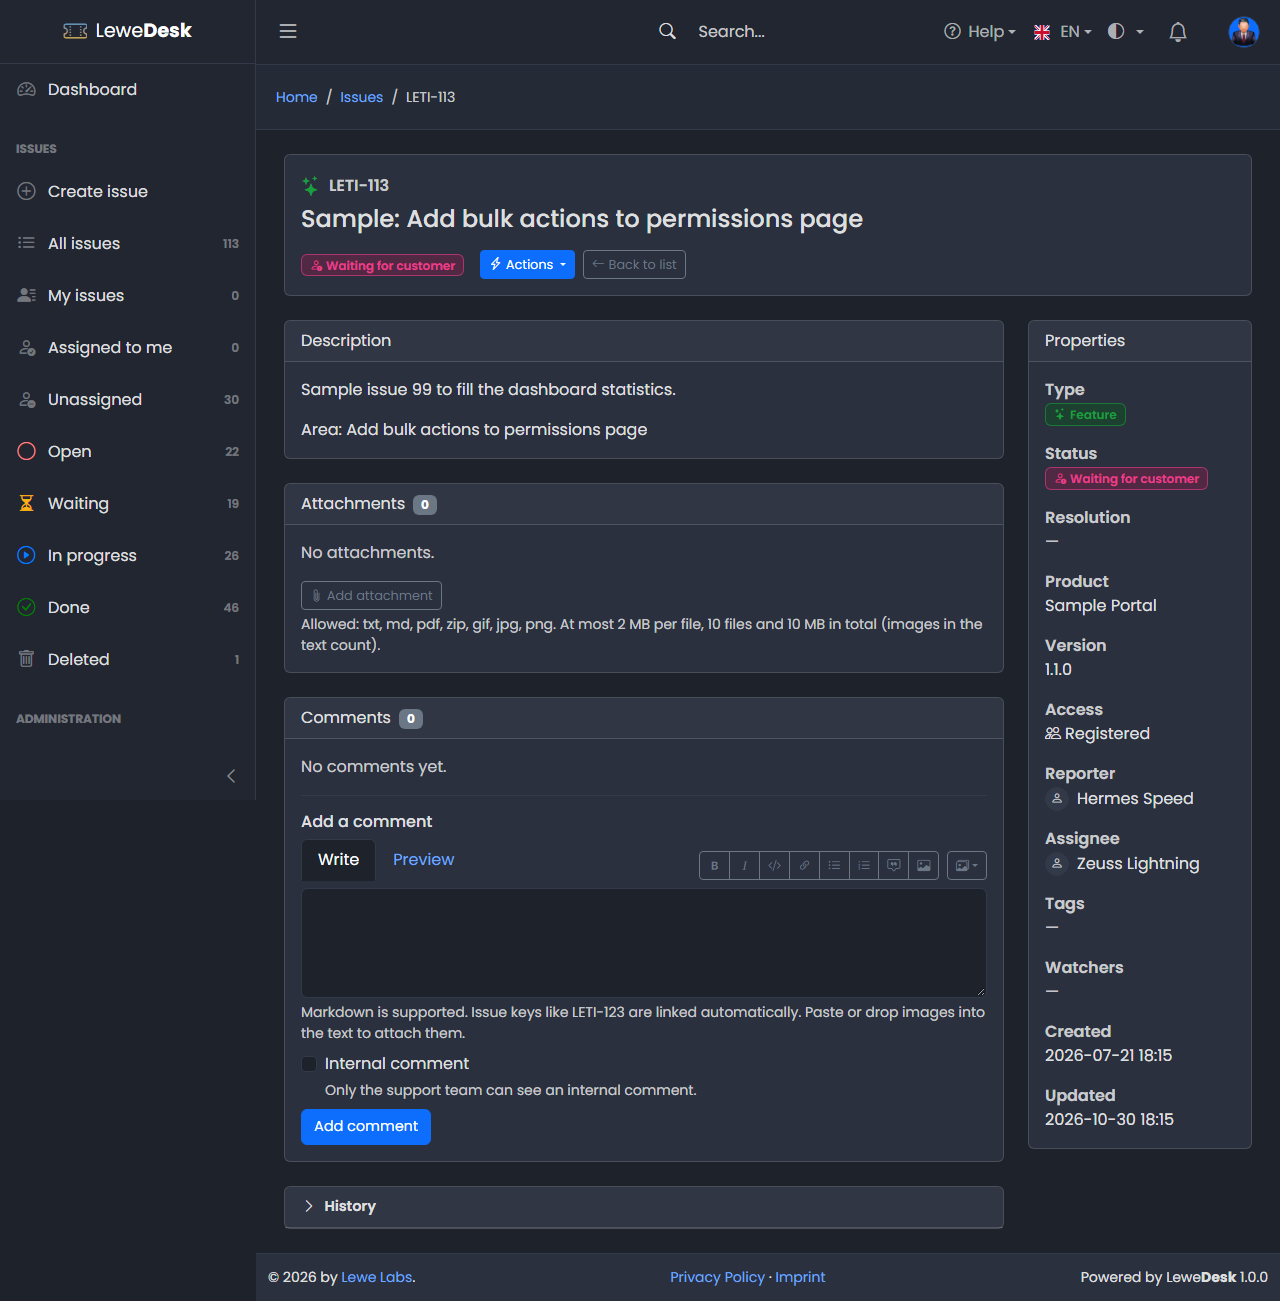
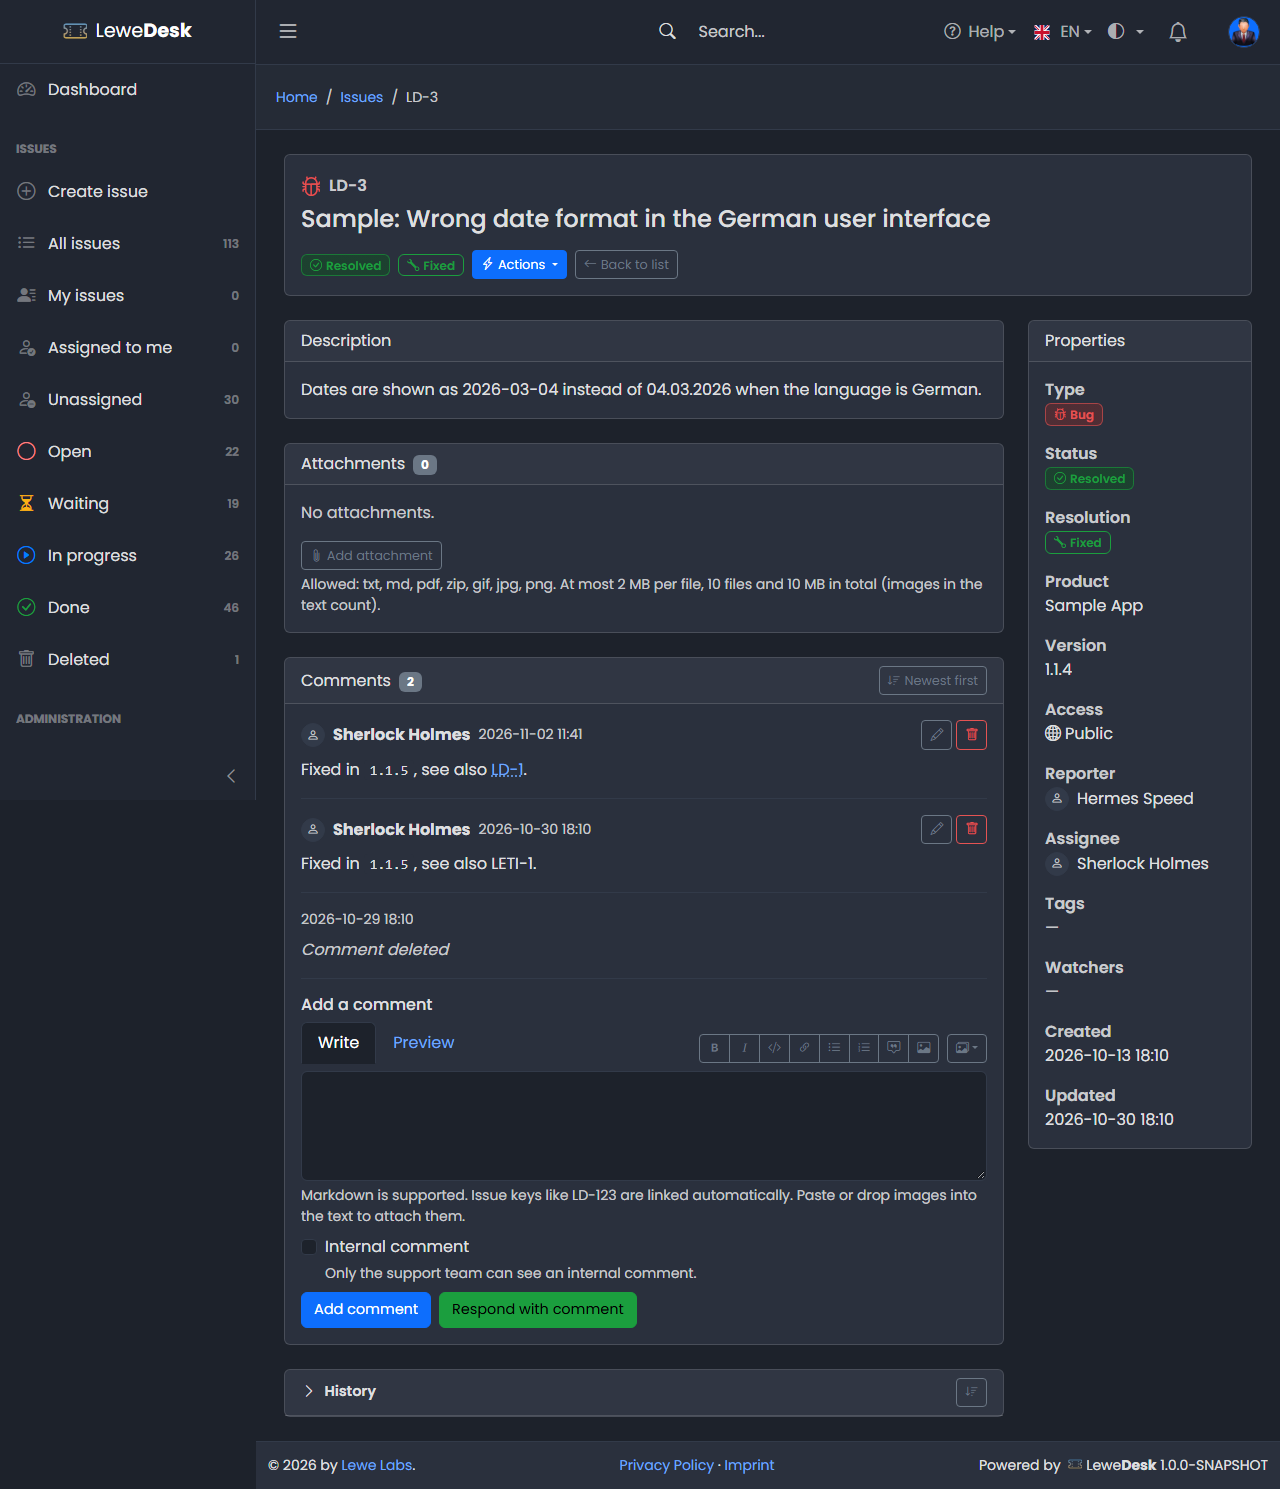
Update issue detail comment buttons

diff --git a/user-guide/issues/comments.md b/user-guide/issues/comments.md
@@ -6,9 +6,23 @@ Comments are the conversation about an issue.
 
 ## Adding a comment
 
-Scroll to **Add a comment** at the bottom of the issue, write your text and click **Add comment**. Comments support [Markdown](../markdown.md). You can paste or drag images into the text (see [Attachments](attachments.md)).
+Scroll to **Add a comment** at the bottom of the issue and write your text. Comments support [Markdown](../markdown.md). You can paste or drag images into the text (see [Attachments](attachments.md)). Below the text field there are up to two buttons:
 
-Alternatively use **Actions** → **Respond**, which also updates the status (see [Issue Actions](issue-actions.md)).
+| Button                   | Effect                                                                                      |
+| ------------------------ | ------------------------------------------------------------------------------------------- |
+| **Add comment**          | Adds the comment. The status of the issue does not change.                                  |
+| **Respond with comment** | Adds the comment and changes the status to show who is expected to answer next (see below). |
+
+### Respond with comment
+
+**Respond with comment** is only shown when it makes sense:
+
+* The reporter sees it when the issue is _Waiting for customer_. Responding sets the status to _Waiting for agent_.
+* Agents and Administrators see it when the issue is _Waiting for agent_. Responding sets the status to _Waiting for customer_.
+
+It is hidden while **Internal comment** is ticked, because an internal comment never changes the status.
+
+It does the same as **Actions** → **Respond** (see [Issue Actions](issue-actions.md)), without opening a dialog.
 
 Who may comment:
 

diff --git a/quick-start-guide.md b/quick-start-guide.md
@@ -20,7 +20,7 @@ The issue gets a key such as `LD-123`. You and the support team are notified. Se
 
 ## 3. Follow your issue
 
-Open **My issues** in the sidebar to see the issues you reported. Open an issue to read comments and see its status. You can answer with **Actions** → **Respond** or by adding a comment.
+Open **My issues** in the sidebar to see the issues you reported. Open an issue to read comments and see its status. You can answer with **Respond with comment** below the comment field, with **Actions** → **Respond**, or just add a comment with **Add comment**.
 
 <figure><img src=".gitbook/assets/issues-list.png" alt=""><figcaption></figcaption></figure>
 
@@ -30,7 +30,7 @@ Agents see all issues. A typical flow looks like this:
 
 1. Open **Unassigned** in the sidebar and open an issue
 2. Click **Actions** → **Assign to me**
-3. Click **Actions** → **Respond** to ask a question or answer. The status changes to _Waiting for customer_.
+3. Click **Respond with comment** below the comment field (or **Actions** → **Respond**) to ask a question or answer. The status changes to _Waiting for customer_.
 4. When the problem is solved, click **Actions** → **Resolve** and select a resolution. The status changes to _Resolved_.
 5. The reporter (or you) closes the issue with **Actions** → **Close**
 

diff --git a/user-guide/issues/issue-actions.md b/user-guide/issues/issue-actions.md
@@ -35,6 +35,10 @@ Enter a comment (mandatory) and click **Respond**. The comment is added to the i
 
 Agents can tick **Internal comment**. An internal comment is only visible to the support team and does not change the status.
 
+{% hint style="info" %}
+The comment form at the bottom of the issue has a **Respond with comment** button that does the same without opening a dialog. See [Comments](comments.md).
+{% endhint %}
+
 ## Resolve
 
 <figure><img src="../../.gitbook/assets/action-resolve.png" alt=""><figcaption></figcaption></figure>
